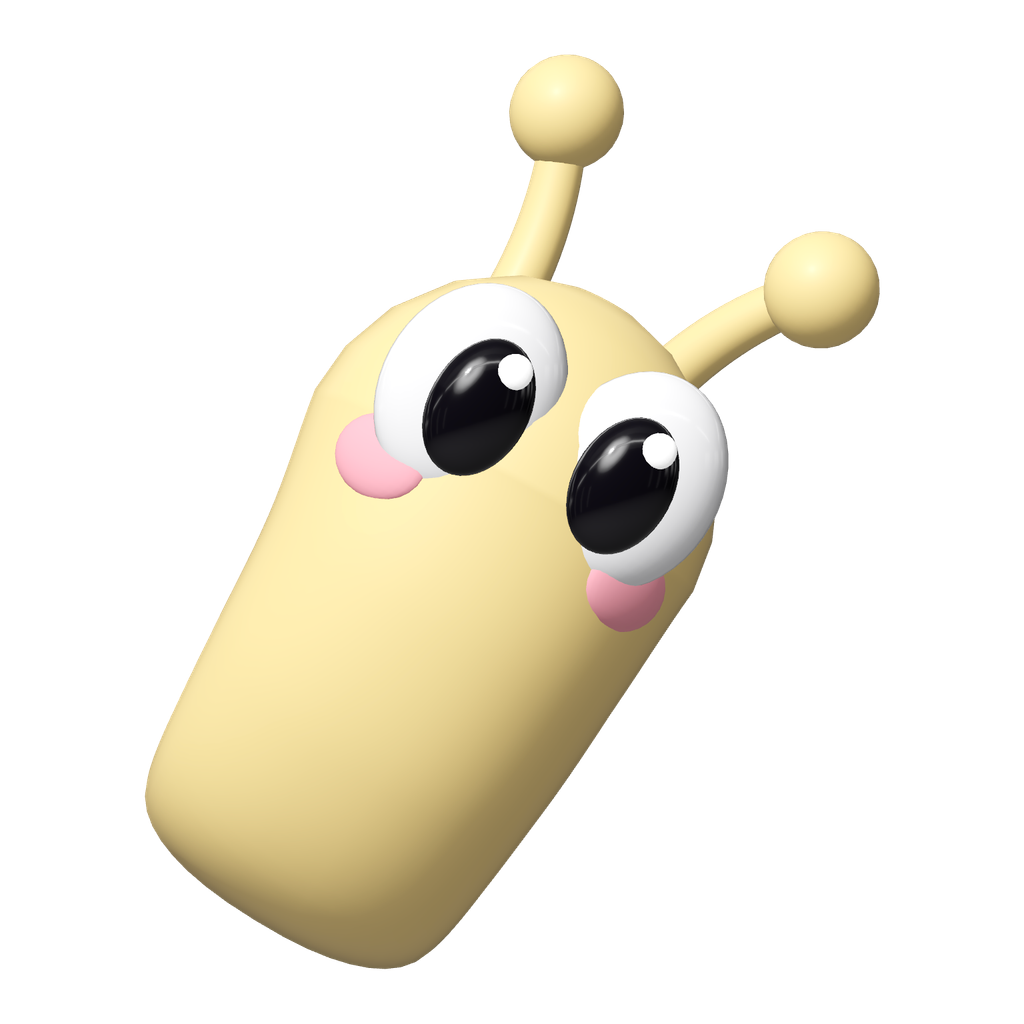
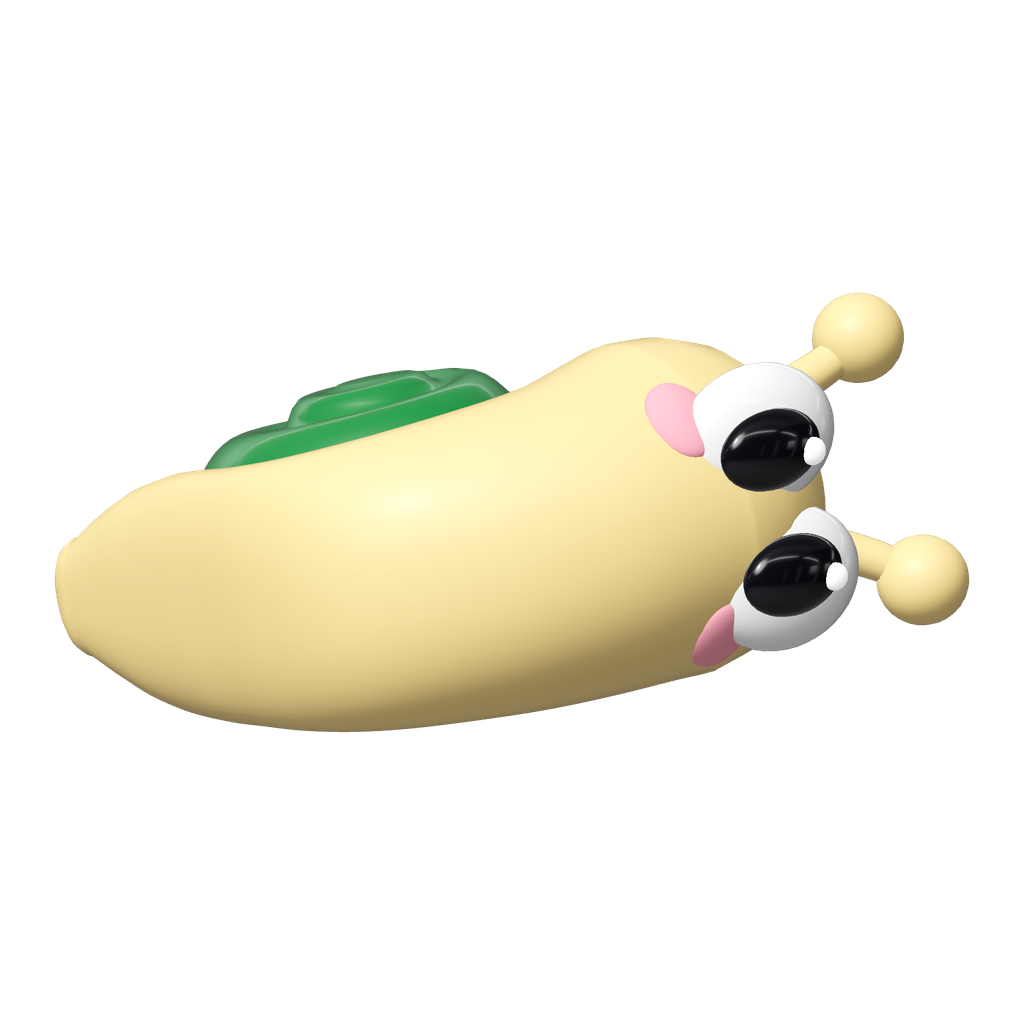
feat: snail lying on its side so its body and shell show

Changed region(s): [[0.0312, 0.0312, 0.9688, 0.9688]]

diff --git a/scripts/render-critters.swift b/scripts/render-critters.swift
@@ -13,14 +13,15 @@ struct Animal {
     let root: String
     let others: [String]
     let yaw: Float
+    var roll: Float = 0
 }
 
 let animals = [
     Animal(file: "kepik", root: "LB_Rig", others: ["BF_Root", "Bee_Root", "SN_Rig"], yaw: 0),
     Animal(file: "kupu", root: "BF_Root", others: ["LB_Rig", "Bee_Root", "SN_Rig"], yaw: 0),
     Animal(file: "lebah", root: "Bee_Root", others: ["LB_Rig", "BF_Root", "SN_Rig"], yaw: 0),
-    // Turned a little so the green shell on its back shows.
-    Animal(file: "siput", root: "SN_Rig", others: ["LB_Rig", "BF_Root", "Bee_Root"], yaw: 0.55),
+    // Seen from the side and leaning over, so the long body and the green shell on its back show.
+    Animal(file: "siput", root: "SN_Rig", others: ["LB_Rig", "BF_Root", "Bee_Root"], yaw: 1.35, roll: 30),
 ]
 
 @main struct Main {
@@ -46,7 +47,8 @@ let animals = [
             let scene = try await Entity(contentsOf: usdz)
             for o in a.others { scene.findEntity(named: o)?.removeFromParent() }
             guard let root = scene.findEntity(named: a.root) else { fatalError(a.root) }
-            root.orientation = simd_quatf(angle: a.yaw, axis: [0, 1, 0]) * root.orientation
+            let lean = simd_quatf(angle: a.roll * .pi / 180, axis: [0, 0, 1])
+            root.orientation = lean * simd_quatf(angle: a.yaw, axis: [0, 1, 0]) * root.orientation
 
             let anchor = AnchorEntity(world: .zero)
             anchor.addChild(scene)

diff --git a/src/scripts/story.ts b/src/scripts/story.ts
@@ -15,6 +15,9 @@ const sleep = (ms: number) => new Promise<void>((r) => window.setTimeout(r, ms))
 const EYE_W = 200;
 const EYE_H = 260;
 
+// The snail lies on its side, so its picture is mostly empty above and below; draw it a little bigger.
+const ANIMAL_SCALE = [1, 1, 1, 1.2];
+
 interface Slot {
   x: number;
   y: number;
@@ -130,6 +133,7 @@ export function initStory() {
         slot.y += Math.sin(now / 650 + i * 1.7) * 6 * calm;
         slot.rot += Math.sin(now / 820 + i * 2.3) * 2.2 * calm;
       }
+      slot.size *= ANIMAL_SCALE[i];
       pal.style.transform = `translate(${slot.x - B / 2}px, ${slot.y - B / 2}px) rotate(${slot.rot}deg) scale(${slot.size / B})`;
       if (i > 0) pal.style.opacity = String(clamp(s * 25));
     });

diff --git a/src/lib/animalEyes.ts b/src/lib/animalEyes.ts
@@ -17,7 +17,7 @@ export const ANIMAL_EYES: Array<{ l: EyeBox; r: EyeBox }> = [
   { l: { x: 366, y: 525, w: 210, h: 205 }, r: { x: 660, y: 522, w: 210, h: 208 } },
   { l: { x: 452, y: 365, w: 135, h: 142 }, r: { x: 606, y: 338, w: 132, h: 138 } },
   { l: { x: 402, y: 410, w: 182, h: 192 }, r: { x: 630, y: 404, w: 190, h: 200 } },
-  { l: { x: 478, y: 392, w: 178, h: 178 }, r: { x: 640, y: 488, w: 150, h: 165 } },
+  { l: { x: 771, y: 426, w: 138, h: 150 }, r: { x: 792, y: 578, w: 138, h: 152 } },
 ];
 
 // Where the middle of an animal's eyes is, as percentages of its box (the opening grows the body out from there).
